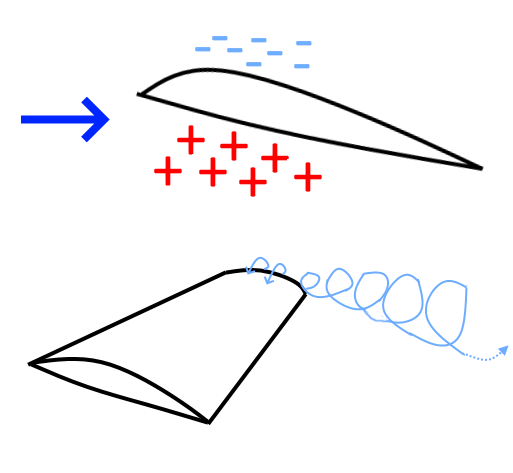
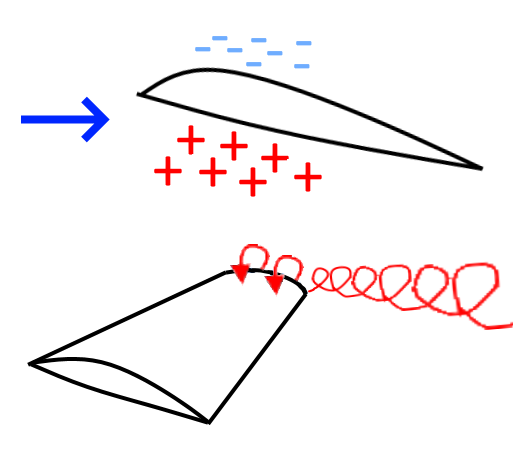
p

Changed region(s): [[0.4366, 0.5032, 1.0, 0.7696], [0.9045, 0.74, 0.9357, 0.7696]]

diff --git a/drag.html b/drag.html
@@ -9,7 +9,7 @@
 
   </head>
 
-<body>
+<body onclick>
 
     
       <div class="header">
@@ -51,9 +51,16 @@
         <p>Foils produce drag when going through the water. There are two types of drag that affect foils:</p>
         
           <h4>1. Parasitic drag</h4>
-             <p>This is the drag caused by the resistance of the water. A bigger frontal area of the foil will increase this. It increases as the square of the speed. </p>
+             <p>This is the drag caused by an object ploughing through water. A bigger frontal area of the foil will increase this, so thick large foils will have more than small thin ones. It increases as the square of the speed. </p>
           <h4>2. Induced drag</h4>
-            <p>This is the drag caused by creating lift, which induces vortices. Creating lift means that there is a low pressure area above the foil, and a high pressure area beneath. At the wingtips, the high pressure water tries to move to the low pressure area. This circular motion of water extends backward behind the foil, and causes drag. This effect is bigger at high Angles of Attack (slow speeds) </p>
+            <p>This is the drag caused by creating lift, which induces vortices. Creating lift means that there is a low pressure area above the foil, and a high pressure area beneath. At the wingtips, the high pressure water tries to move to the low pressure area. This circular motion of water extends backward behind the foil, and causes drag. </p>
+              
+            <div class = "diagrams">
+              <img src = "Wake_Turbulence.jpg" width="300px" height="240px" />
+              
+          </div>
+              
+              <p>This effect is bigger at high Angles of Attack (slow speeds): </p>
         
           <div class="sections1">
             <div class = "diagrams">
@@ -73,7 +80,8 @@
         <div class = "diagrams">
           <img src = "drag.jpg" width="300px" height="250px" />
       </div>
-      <p>From the graph we can see that there is a moderate speed at which drag is at a minimum. We call this Minimum-Drag speed. This speed is the most efficient and requires the least amount of power from the sail/wing or wave. If you are doing a low power activity like pump-foiling, you will want to do it at this speed.</p>
+      <p>This graph of Total Drag vs Speed is very important for foiling.</p>
+      <p>There is a moderate speed at which drag is at a minimum. We call this Minimum-Drag speed. This speed is the most efficient and requires the least amount of power from the sail/wing or wave. If you are doing a low power activity like pump-foiling, you will want to do it at this speed.</p>
     </div>
 
     <h3>Stable and unstable speed</h3>

diff --git a/foilsetupadvanced.html b/foilsetupadvanced.html
@@ -9,7 +9,7 @@
 
   </head>
 
-<body>
+<body onclick>
 
     
       <div class="header">
@@ -61,7 +61,7 @@
           <li>How much the foil setup will try to return to where it was after hitting turbulence</li>
         </ul>
 
-        <p>Beginners will want good pitch stability, as they won't be as accurate and quick in shifting their bodyweight.</p>
+        <p>Beginners will want strong pitch stability, as they won't be as accurate and quick in shifting their bodyweight.</p>
         <p>More advanced riders will want to be able to adjust their pitch more easily, to cope better with a rider range of speeds</p>
 
         <p>You can increase stability by using:</p>
